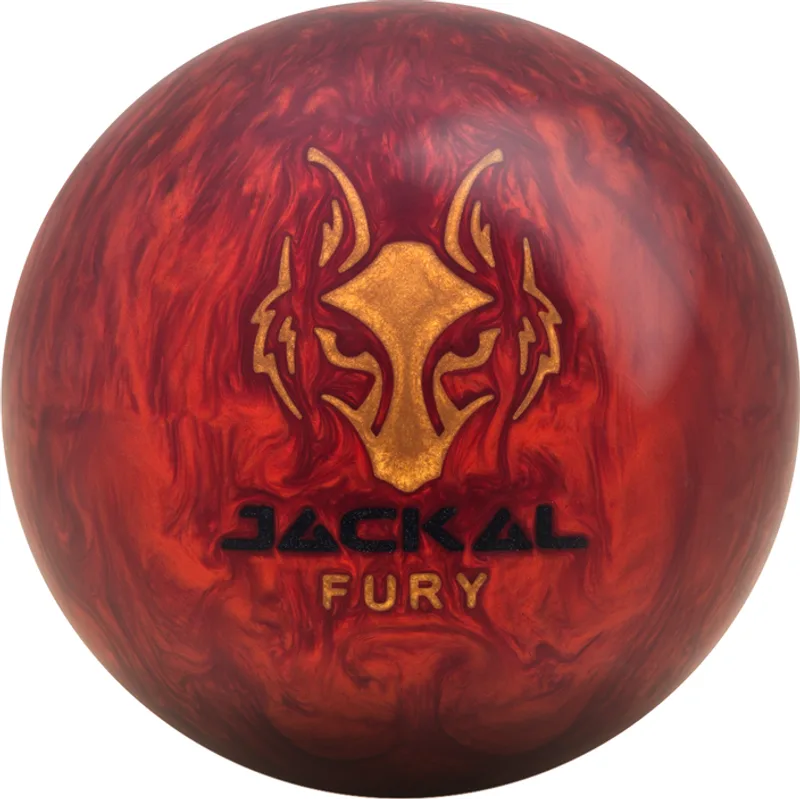
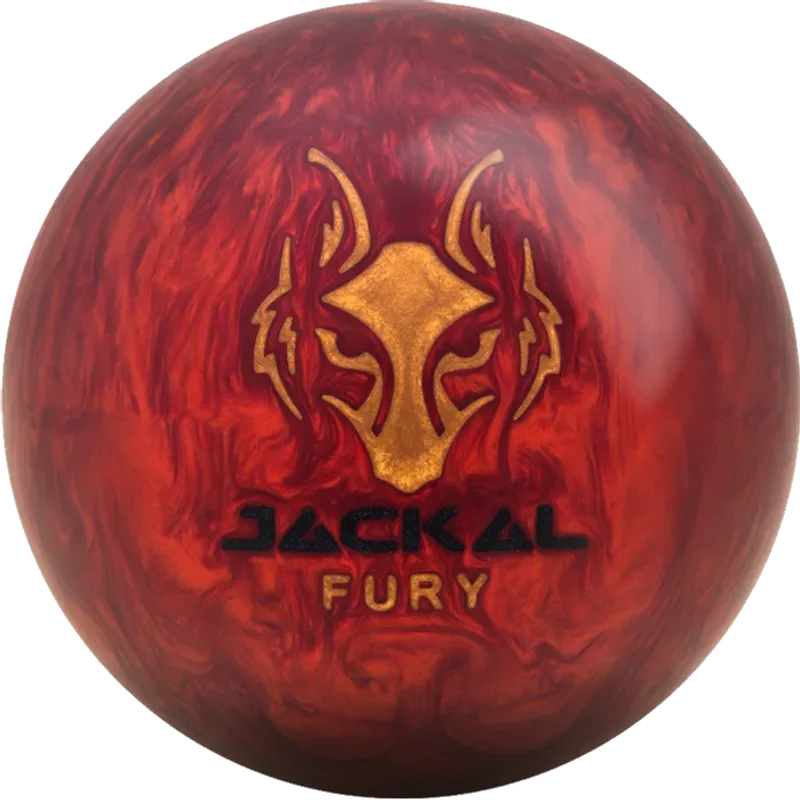
Catalog photos: clear the white behind Jackal Scar, Jackal Fury and Path; five more Path colours
Adds npm run clear-background, which clears near-white connected to the
canvas edge or to transparency and can cut to the ball's circle to drop a
shadow, then re-renders through renderBallImage. The three repaired photos get
new file names so the 30-day photo cache lets them through, and keep their old
names too for arsenal snapshots. Pyramid Path gains Hot Pink/Lime,
Pink/Teal/Blue, Orange/Black, Pink/Yellow/Black and Black/Silver.

Claude-Session: https://claude.ai/code/session_017zRT5VGyiDdkYBA4ruMtDG

Changed region(s): [[0.0625, 0.2188, 0.0938, 0.25]]

diff --git a/scripts/sync-catalog/pipeline/clear-background.ts b/scripts/sync-catalog/pipeline/clear-background.ts
@@ -1,0 +1,172 @@
+/**
+ * Clear a white photo background that survived the normaliser, then re-render.
+ *
+ * Usage:
+ *   npm run clear-background -- <ball-id> [<ball-id>…]
+ *   npm run clear-background -- --min=170 <ball-id>   # also clear near-white grey
+ *   npm run clear-background -- --circle <ball-id>    # and cut to the ball's circle
+ *
+ * `render.ts` trims a uniform border, which drops a white card around a ball
+ * but not the white left in the corners of a square photo of a round ball, nor
+ * a white crescent where an earlier circular cut sat off the ball's centre.
+ * This clears exactly that: near-white pixels connected to the canvas edge or
+ * to pixels already transparent, by flood fill. A white swirl or a glossy rim
+ * inside the ball is not reached, because the ball's own edge is not white all
+ * the way round. It is a per-ball repair rather than a step in every render
+ * for that reason: on a white ball whose swirl touches the rim, a flood would
+ * eat into the ball, so a human picks the balls and checks the contact sheet.
+ *
+ * Works from the ball's current `-full.webp`, since the original download is
+ * not kept, and writes both sizes back through `renderBallImage`.
+ */
+import { resolve } from "node:path";
+import { fileURLToPath } from "node:url";
+import sharp from "sharp";
+
+import { FULL, THUMB, renderBallImage } from "./render.js";
+
+/**
+ * A pixel at least this bright in every channel, and this close to grey, is
+ * background, not ball. The default takes white and near-white; a lower
+ * `--min` also takes the light grey of a photo's drop shadow, which is only
+ * safe on a ball with no light grey at its edge.
+ */
+export const DEFAULT_WHITE_MIN = 222;
+const GREY_SPREAD = 28;
+
+function isBackground(data: Buffer, i: number, whiteMin: number): boolean {
+  if (data[i + 3] < 128) return true;
+  const r = data[i], g = data[i + 1], b = data[i + 2];
+  return Math.min(r, g, b) >= whiteMin && Math.max(r, g, b) - Math.min(r, g, b) <= GREY_SPREAD;
+}
+
+/**
+ * Make every background pixel reachable from the edge or from transparency
+ * transparent, and soften the one-pixel seam it leaves. Mutates `data`
+ * (RGBA, `width` x `height`) and returns how many pixels it cleared.
+ */
+export function clearConnectedBackground(
+  data: Buffer,
+  width: number,
+  height: number,
+  whiteMin = DEFAULT_WHITE_MIN
+): number {
+  const n = width * height;
+  const cleared = new Uint8Array(n);
+  const stack: number[] = [];
+  const seed = (p: number) => {
+    if (!cleared[p] && isBackground(data, p * 4, whiteMin)) {
+      cleared[p] = 1;
+      stack.push(p);
+    }
+  };
+  for (let x = 0; x < width; x++) {
+    seed(x);
+    seed((height - 1) * width + x);
+  }
+  for (let y = 0; y < height; y++) {
+    seed(y * width);
+    seed(y * width + width - 1);
+  }
+  // Transparent pixels anywhere are seeds too: an earlier cut may have left a
+  // white band between its edge and the ball.
+  for (let p = 0; p < n; p++) if (data[p * 4 + 3] < 128) seed(p);
+
+  while (stack.length > 0) {
+    const p = stack.pop()!;
+    const x = p % width;
+    if (x > 0) seed(p - 1);
+    if (x < width - 1) seed(p + 1);
+    if (p >= width) seed(p - width);
+    if (p < n - width) seed(p + width);
+  }
+
+  let count = 0;
+  for (let p = 0; p < n; p++) {
+    if (!cleared[p]) continue;
+    if (data[p * 4 + 3] >= 128) count++;
+    data[p * 4 + 3] = 0;
+  }
+  // A ball pixel touching the cleared area is half background after
+  // compression; halving it stops a hard white fringe.
+  for (let p = 0; p < n; p++) {
+    if (cleared[p]) continue;
+    const x = p % width;
+    const touches =
+      (x > 0 && cleared[p - 1]) || (x < width - 1 && cleared[p + 1]) ||
+      (p >= width && cleared[p - width]) || (p < n - width && cleared[p + width]);
+    if (touches) data[p * 4 + 3] = Math.round(data[p * 4 + 3] / 2);
+  }
+  return count;
+}
+
+/**
+ * Clear everything outside the ball's circle. The circle is fitted to the
+ * opaque pixels' left, right and top extremes, not the bottom, because a drop
+ * shadow under a ball is what this is for and it hangs below the ball. Returns
+ * how many pixels it cleared.
+ */
+export function clearOutsideCircle(data: Buffer, width: number, height: number): number {
+  let left = width, right = -1, top = height;
+  for (let y = 0; y < height; y++) {
+    for (let x = 0; x < width; x++) {
+      if (data[(y * width + x) * 4 + 3] < 128) continue;
+      if (x < left) left = x;
+      if (x > right) right = x;
+      if (y < top) top = y;
+    }
+  }
+  if (right < left) return 0;
+  const r = (right - left + 1) / 2;
+  const cx = left + r - 0.5;
+  const cy = top + r - 0.5;
+  let count = 0;
+  for (let y = 0; y < height; y++) {
+    for (let x = 0; x < width; x++) {
+      const i = (y * width + x) * 4 + 3;
+      const d = Math.hypot(x - cx, y - cy);
+      if (d > r + 0.5) {
+        if (data[i] >= 128) count++;
+        data[i] = 0;
+      } else if (d > r - 0.5) {
+        data[i] = Math.round(data[i] * (r + 0.5 - d));
+      }
+    }
+  }
+  return count;
+}
+
+async function clearBall(imgDir: string, id: string, whiteMin: number, circle: boolean): Promise<void> {
+  const fullPath = resolve(imgDir, `${id}-full.webp`);
+  const { data, info } = await sharp(fullPath).ensureAlpha().raw().toBuffer({ resolveWithObject: true });
+  let count = clearConnectedBackground(data, info.width, info.height, whiteMin);
+  if (circle) count += clearOutsideCircle(data, info.width, info.height);
+  const cleaned = await sharp(data, { raw: { width: info.width, height: info.height, channels: 4 } })
+    .png()
+    .toBuffer();
+  await renderBallImage(cleaned, THUMB.size, THUMB.quality, resolve(imgDir, `${id}-thumb.webp`));
+  await renderBallImage(cleaned, FULL.size, FULL.quality, fullPath);
+  const share = ((count / (info.width * info.height)) * 100).toFixed(1);
+  console.log(`✓ ${id}: cleared ${count} background pixels (${share}% of the canvas)`);
+}
+
+async function main(): Promise<void> {
+  const ids = process.argv.slice(2).filter((a) => !a.startsWith("--"));
+  const minArg = process.argv.find((a) => a.startsWith("--min="));
+  const whiteMin = minArg ? Number(minArg.slice("--min=".length)) : DEFAULT_WHITE_MIN;
+  const circle = process.argv.includes("--circle");
+  if (ids.length === 0) {
+    console.error("Usage: npm run clear-background -- <ball-id> [<ball-id>…]");
+    process.exit(1);
+  }
+  const imgDir = resolve(fileURLToPath(new URL(".", import.meta.url)), "../../../public/catalog/img");
+  for (const id of ids) await clearBall(imgDir, id, whiteMin, circle);
+  console.log("Now run npm run contact-sheet and look at these balls in both themes.");
+}
+
+if (process.argv[1] && process.argv[1].endsWith("clear-background.ts")) {
+  main().catch((err) => {
+    console.error(err);
+    process.exit(1);
+  });
+}

diff --git a/scripts/sync-catalog/pipeline/clear-background.test.ts b/scripts/sync-catalog/pipeline/clear-background.test.ts
@@ -1,0 +1,67 @@
+import { describe, expect, it } from "vitest";
+
+import { clearConnectedBackground, clearOutsideCircle } from "./clear-background.js";
+
+const W = 40;
+const H = 40;
+
+/** A dark ball of radius 15 on a white square, with a white swirl inside it. */
+function ballOnWhite(): Buffer {
+  const data = Buffer.alloc(W * H * 4);
+  for (let y = 0; y < H; y++) {
+    for (let x = 0; x < W; x++) {
+      const i = (y * W + x) * 4;
+      const inBall = Math.hypot(x - 20, y - 20) <= 15;
+      const swirl = inBall && Math.hypot(x - 20, y - 20) <= 4;
+      const v = inBall && !swirl ? 30 : 250;
+      data[i] = data[i + 1] = data[i + 2] = v;
+      data[i + 3] = 255;
+    }
+  }
+  return data;
+}
+
+const alpha = (data: Buffer, x: number, y: number) => data[(y * W + x) * 4 + 3];
+
+describe("clearConnectedBackground", () => {
+  it("clears the white around a round ball and keeps the white inside it", () => {
+    const data = ballOnWhite();
+    const cleared = clearConnectedBackground(data, W, H);
+    expect(cleared).toBeGreaterThan(0);
+    expect(alpha(data, 0, 0)).toBe(0);
+    expect(alpha(data, W - 1, H - 1)).toBe(0);
+    // The swirl is white too, but the ball's dark edge walls it off.
+    expect(alpha(data, 20, 20)).toBe(255);
+    expect(alpha(data, 20, 10)).toBe(255);
+  });
+
+  it("reaches a white band that sits inside an earlier transparent cut", () => {
+    const data = ballOnWhite();
+    // An old cut: only the outer ring is transparent, white remains inside it.
+    for (let p = 0; p < W * H; p++) {
+      const x = p % W, y = Math.floor(p / W);
+      if (Math.hypot(x - 20, y - 20) > 18) data[p * 4 + 3] = 0;
+    }
+    clearConnectedBackground(data, W, H);
+    expect(alpha(data, 20, 3)).toBe(0); // the band between the cut and the ball
+    expect(alpha(data, 20, 20)).toBe(255);
+  });
+});
+
+describe("clearOutsideCircle", () => {
+  it("cuts a shadow below the ball, fitting the circle to its sides and top", () => {
+    const data = ballOnWhite();
+    clearConnectedBackground(data, W, H);
+    // A grey drop shadow hanging under the ball, opaque, the flood left it.
+    for (let x = 14; x <= 26; x++) for (let y = 36; y <= 38; y++) {
+      const i = (y * W + x) * 4;
+      data[i] = data[i + 1] = data[i + 2] = 120;
+      data[i + 3] = 255;
+    }
+    const cut = clearOutsideCircle(data, W, H);
+    expect(cut).toBeGreaterThan(0);
+    expect(alpha(data, 20, 37)).toBe(0);
+    expect(alpha(data, 20, 20)).toBe(255);
+    expect(alpha(data, 20, 33)).toBeGreaterThan(0); // the ball's own bottom edge survives
+  });
+});

diff --git a/scripts/sync-catalog/data/HANDOUT.md b/scripts/sync-catalog/data/HANDOUT.md
@@ -136,6 +136,18 @@ first:
    is obvious to an eye and invisible to a test.
 5. **Never a retailer's photo** (the `gather-ball-specs` rule). A ball with no
    manufacturer image keeps the placeholder.
+6. **A white background that got through** (a ball photographed on a white
+   square, or a white crescent from an off-centre cut): `npm run
+   clear-background -- <ball-id>` clears near-white connected to the edge, and
+   `--circle` also cuts to the ball's circle, which removes a drop shadow. It
+   works from the current image, so give the repaired files a new name (as the
+   Jackal Scar, Jackal Fury and Path got `-bg2-`): the app caches a photo by
+   its URL for 30 days. Keep the old file too, holding the repaired image,
+   because arsenal balls keep a snapshot of the old path.
+7. **MOTIV's media folder.** MOTIV shares a Dropbox folder of ball images
+   covered by their permission (ADR-061); the owner has the link. It needs
+   `www.dropbox.com` and `dl.dropboxusercontent.com` allowed, which the mobile
+   app could not set; use the desktop app.
 
 Hosts to allow for the image work: the manufacturer domains above, and the SPI
 CDN host in `sources.ts`.
@@ -307,6 +319,23 @@ them. The value is the text both sites shared; a fuller name from the page
 - Roto Grip RST Hyperdrive: "MicroTrax"
 - Roto Grip X-Cell: "eTrax ULTRA"
 - Storm Hy-Road X: "R2X"
+
+### Pyramid Path colourways
+
+Six colours are in the catalog: Pink/Black, plus Hot Pink/Lime, Pink/Teal/Blue,
+Orange/Black and Pink/Yellow/Black (listed on both pyramidbowling.com and
+bowwwl), and Black/Silver (its own product page on pyramidbowling.com). Their
+`sku` values (`PATH-OR-BK` and so on) are catalog keys in the existing
+`PATH-PK-BK` style, **not Pyramid SKUs**, which no search turned up. None of
+the five has its own photo, so the detail page shows the Pink/Black ball under
+their names until one is added (`add-ball-image` keys a colourway as
+`<id>--<sku>`).
+
+A search summary of pyramidbowling.com also named Cosmic Candy Swirl,
+Purple/Light Purple, Purple/Black/White, Blue/Light Blue/Lime Green,
+Emerald/Black/Silver, Navy/Lime Green/White, Aqua/Silver, Blue/Black/White and
+Pink/Purple/Silver for the original Path. No second site confirmed them, so
+they are not in; a read of Pyramid's Path pages would settle them.
 
 ### Readings a page should settle
 

diff --git a/docs/CHANGELOG.md b/docs/CHANGELOG.md
@@ -25,6 +25,11 @@ Portal, Cove, Ember and Vengeance; and more. Every one has RG and
 differential that two sites agree on and a second check confirmed. The new
 balls show the brand placeholder until their photos are added (ADR-135).
 
+**Cleaner photos.** The Jackal Scar and Jackal Fury no longer sit on a white
+square, and the Pyramid Path loses the white edge and the shadow it showed on
+one side. The Path also comes in five more colours: Hot Pink/Lime,
+Pink/Teal/Blue, Orange/Black, Pink/Yellow/Black and Black/Silver.
+
 ## 0.21.0: The catalog says the month a ball came out (2026-10-11)
 
 **Release month in the catalog.** A catalog ball now says when it came out to

diff --git a/.claude/skills/gather-ball-specs/SKILL.md b/.claude/skills/gather-ball-specs/SKILL.md
@@ -162,7 +162,10 @@ npm run contact-sheet
 to `add-ball-image`. Open `scripts/sync-catalog/contact-sheet.html` and look at
 it, in both light and dark. A bad cut or an off-centre ball is only visible to an
 eye. A ball with no usable image keeps the placeholder; never substitute a photo
-from a retailer.
+from a retailer. A ball whose photo still shows a white background or a white
+edge: `npm run clear-background -- <ball-id>` (add `--circle` to also cut away
+a drop shadow), then rename the files so the app's 30-day photo cache lets the
+fix through (the handout says how).
 
 ## Finish
 
